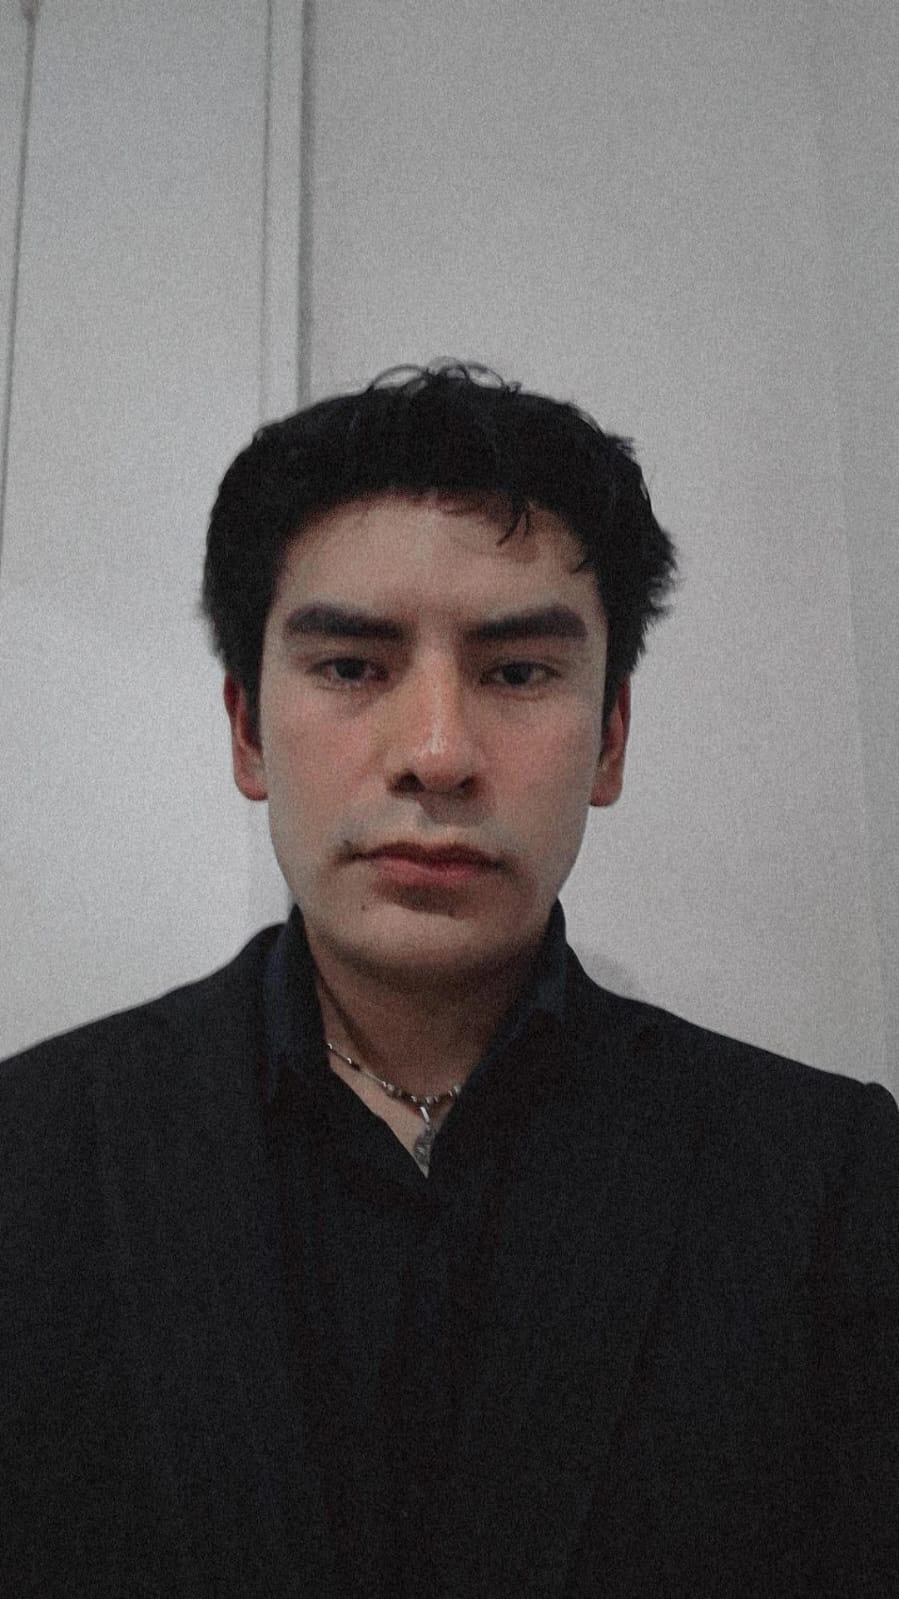
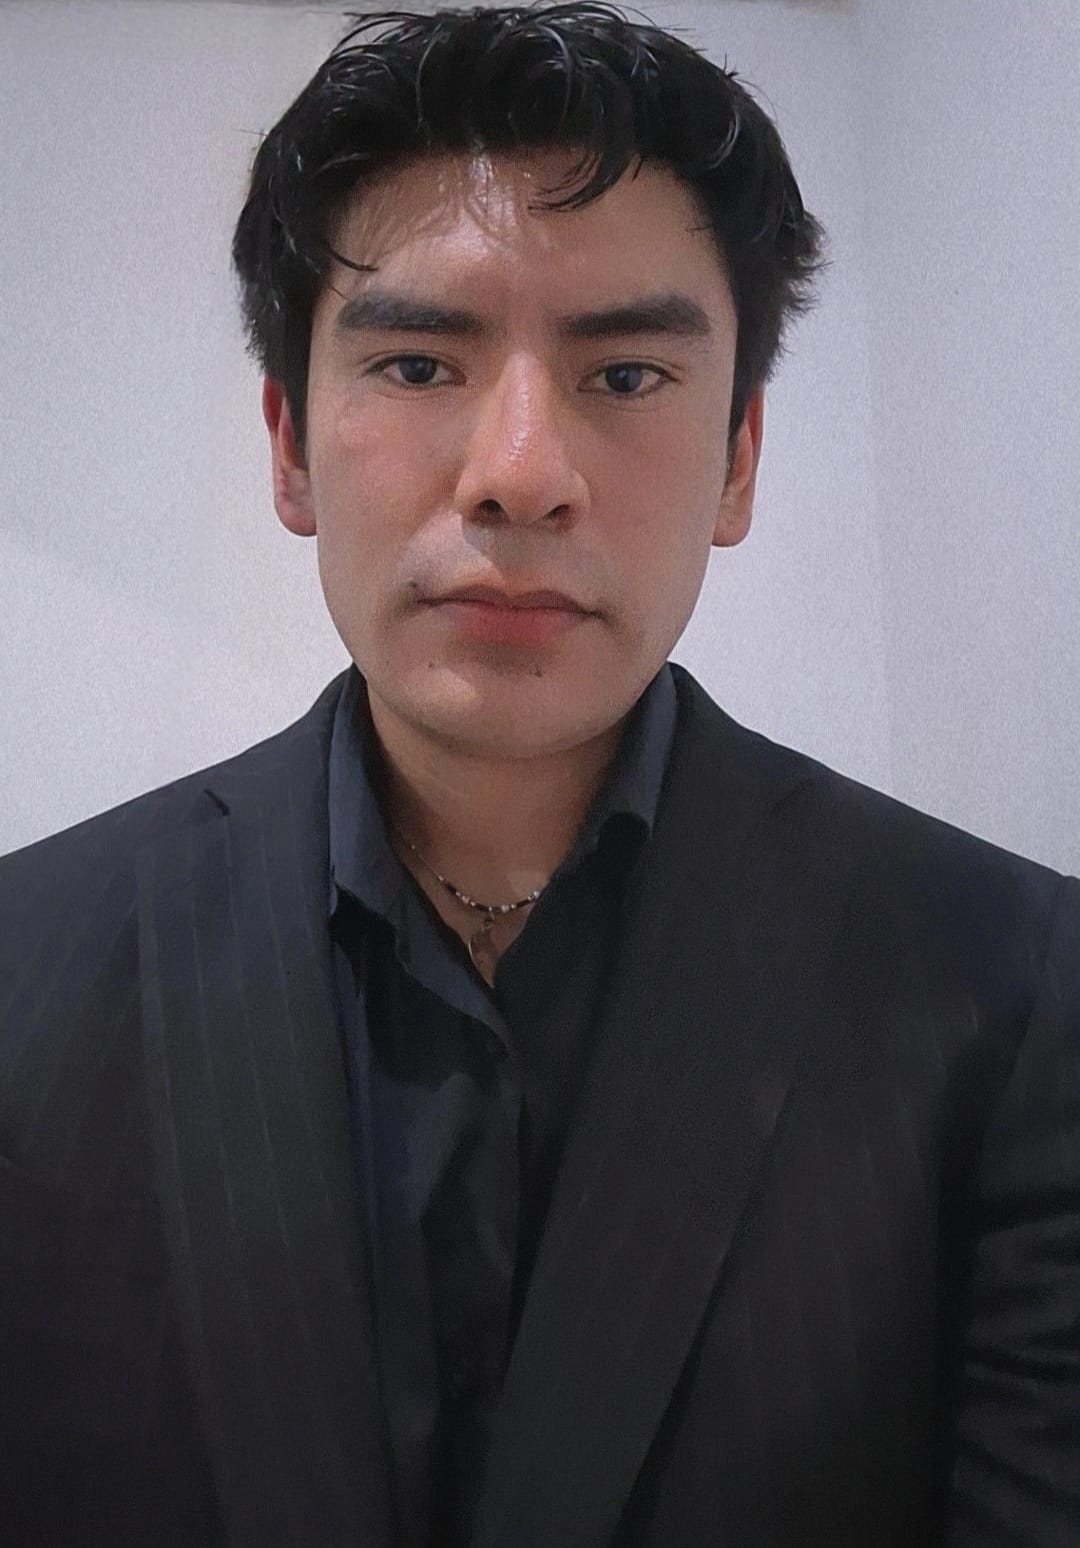
se termino el quienes somos

diff --git a/HTML/quienessomos.html b/HTML/quienessomos.html
@@ -499,14 +499,9 @@ Apasionada por el análisis de datos y la resolución de problemas técnicos. Tr
                         <div class="flip-card-back">
                             
                 <div class="profiledevs">
-                    <div class="">
-                        <div class="profiledevs-img">
-                            <img  src="./Pictures/FerS.jpeg">
-                        </div>
-                    </div>
                     <div class="profiledevs-desc">
                         <h1>Fernando</h1>
-                        <p>Estratega SCRUM y Desarrollador Frontend</p>
+                        <p>Desarrollador Full Stack Java Jr. con bases sólidas en POO y enfoque en back-end. Experiencia en proyectos colaborativos bajo metodologías ágiles, diseñando soluciones web escalables y orientadas al usuario. Comprometido con el aprendizaje continuo y la mejora constante.</p>
                     </div>
                 </div>
                         </div>
